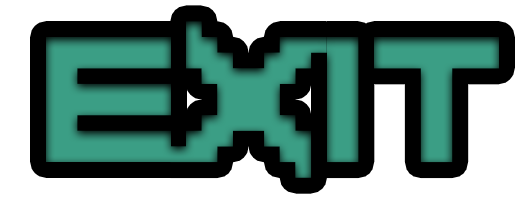
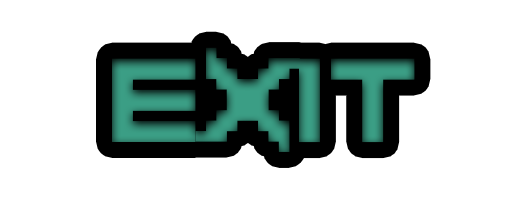
Added menu Buttons

diff --git a/src/main/java/eu/theritual/wrathofbahrott/viewoperator/MainMenuController.java b/src/main/java/eu/theritual/wrathofbahrott/viewoperator/MainMenuController.java
@@ -6,7 +6,6 @@ import javafx.application.Platform;
 import javafx.event.Event;
 import javafx.fxml.FXML;
 import javafx.geometry.Pos;
-import javafx.scene.control.Button;
 import javafx.scene.image.ImageView;
 import javafx.scene.input.MouseEvent;
 import javafx.scene.layout.BorderPane;
@@ -26,11 +25,29 @@ public class MainMenuController {
         Platform.exit();
     }
 
+    private void buttonHoverImage(Event e) {
+        ImageView img = (ImageView) e.getSource();
+        img.setImage(ViewUtils.getImage(img.getId()+"On", 263, 100));
+    }
+
+    private void buttonUnHoverImage(Event e) {
+        ImageView img = (ImageView) e.getSource();
+        img.setImage(ViewUtils.getImage(img.getId()+"Out", 263, 100));
+    }
+
     void setViewOperator(ViewOperator viewOperator) {
         this.viewOperator = viewOperator;
     }
     void setDataOperator(DataOperator dataOperator) {
         this.dataOperator = dataOperator;
+    }
+
+    private ImageView createMenuButton(String gfxName) {
+        ImageView btn = ViewUtils.getImageView(gfxName + "Out", 263,100);
+        btn.setId(gfxName);
+        btn.setOnMouseEntered(this::buttonHoverImage);
+        btn.setOnMouseExited(this::buttonUnHoverImage);
+        return btn;
     }
 
     void drawMenu() {
@@ -39,11 +56,15 @@ public class MainMenuController {
         ImageView wobLogo = ViewUtils.getImageView("wobLogo", viewOperator.getScreenWidth()* 0.50, viewOperator.getScreenHeight() * 0.50);
         menuPane.setTop(wobLogo);
         BorderPane.setAlignment(wobLogo, Pos.TOP_CENTER);
-        Button exitButton = new Button("Exit");
-        exitButton.addEventHandler(MouseEvent.MOUSE_CLICKED, this::exitAction);
         VBox menuList = new VBox();
+        menuList.setAlignment(Pos.TOP_CENTER);
+        ImageView exitButton = createMenuButton("exit");
+        exitButton.addEventHandler(MouseEvent.MOUSE_CLICKED, this::exitAction);
+        ImageView startButton = createMenuButton("start");
+        exitButton.addEventHandler(MouseEvent.MOUSE_CLICKED, t -> System.out.println("Startuję"));
+        menuList.getChildren().add(startButton);
         menuList.getChildren().add(exitButton);
         menuPane.setCenter(menuList);
-        BorderPane.setAlignment(menuList, Pos.CENTER);
+        BorderPane.setAlignment(menuList, Pos.TOP_CENTER);
     }
 }

diff --git a/src/main/java/eu/theritual/wrathofbahrott/viewoperator/viewutils/ViewUtils.java b/src/main/java/eu/theritual/wrathofbahrott/viewoperator/viewutils/ViewUtils.java
@@ -21,6 +21,8 @@ public class ViewUtils {
         images.put("wobLogo", "gfx/WrathOfBohrottLogo.png");
         images.put("exitOn", "gfx/exitOn.png");
         images.put("exitOut", "gfx/exitOut.png");
+        images.put("startOn", "gfx/startOn.png");
+        images.put("startOut", "gfx/startOut.png");
         return images;
     }
 
@@ -44,7 +46,7 @@ public class ViewUtils {
         return new Image(imgFile);
     }
 
-    private static Image getImage(String name, double width, double height) {
+    public static Image getImage(String name, double width, double height) {
         String imgFile = getImagesMap().get(name).toString();
         try {
             imgFile = ViewOperator.class.getResource(imgFile).toURI().toURL().toString();
